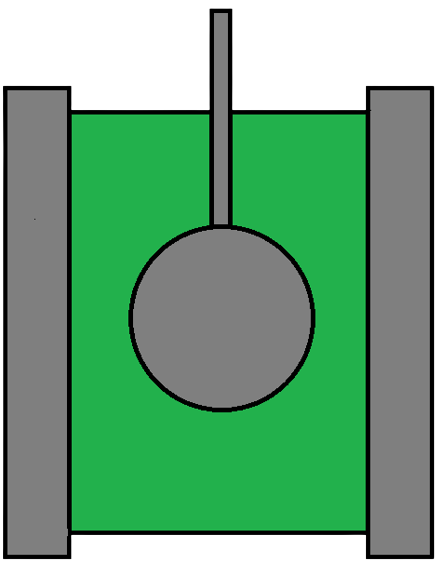
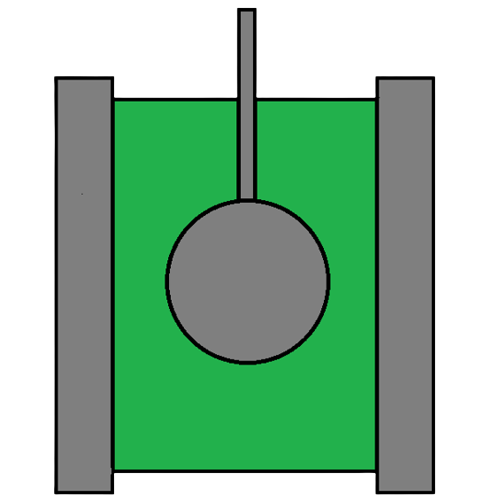
Jiný obrázek

diff --git a/No gold for goblins.py b/No gold for goblins.py
@@ -4,7 +4,7 @@ import math
 
 pygame.init()
 
-velikost_x = 150
+velikost_x = 200
 velikost_y = 200
 ROZLISENI_X = 1920
 ROZLISENI_Y = 1022
@@ -60,10 +60,15 @@ while True:
     if pozice_y < 0:
         pozice_y = 0
         
-        
-    tank = pygame.transform.rotate(tank1, uhel)   
+    uhel = round(uhel)    
+    tank = pygame.transform.rotate(tank1, uhel)
+    okno.blit(
+        tank,
+        (300 - int(tank.get_width() / 2),
+         pozice_y - int(tank.get_height() / 2))
+    )
     okno.blit(pozadi, (0, 0))
     okno.blit(tank, (pozice_x, pozice_y))
-    
+   
     pygame.display.update()
     hodiny.tick(FPS)
